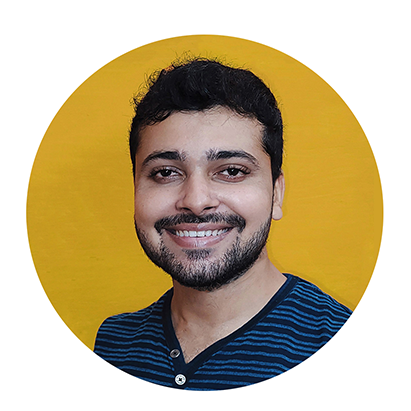
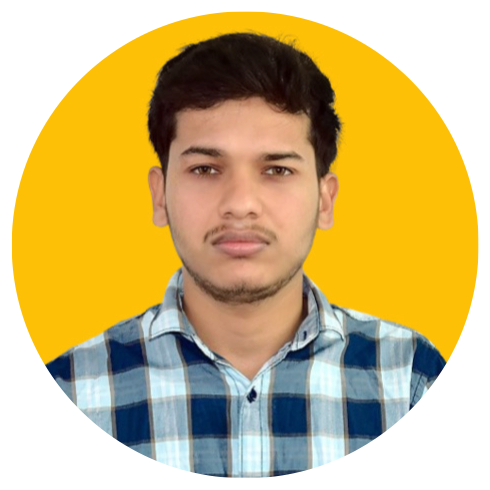
Change Photo,Intern

diff --git a/index.html b/index.html
@@ -332,15 +332,15 @@
 		<div class="row">
 				<div class="col-md-6">
 					<div class="resume-wrap ftco-animate">
-						<span class="date">2021-Present</span>
-						<h2>Senior Data Analyst</h2>
-						<span class="position">Merkle,</span>
+						<span class="date">June-August,2023</span>
+						<h2>AWS Intern</h2>
+						<span class="position">Ramraj Technology Solution,</span>
 						<span class="mt-4">Bhopal</span>
-						<p class="mt-4">Merkle, a leading CXM and media company with over 10K+ professionals globally. It's a part of Dentsu International. 
+						<p class="mt-4">Ramraj Technology Solutions Private Limited is an IT solutions and consulting company based in Bhopal, Madhya Pradesh.
 							<ul>
-								<li>Analysed ad campaigns, clickstream, and customer surveys data, identified an increasing demand and launched a strategic product line.</li>
-								<li>Developed time series forecasting models to predict sales and optimize marketing budgets, got model performance of 92%.</li>
-								<li>Designed and executed A/B tests, performed rigorous statistical analysis. Led to 20% MoM increase in the conversion rate.</li>
+								<li>I completed an AWS cloud computing internship at Ramraj Technology in collaboration with Technocrats Institute of Technology and Science.</li>
+								<li>Established in year 2009, RamrajTech is an IT Solutions, IT Staffing and Consulting Company.</li>
+								<li>Operating currently from Bhopal, capital city of MP</li>
 							</ul>
 						</p>
 					</div>
